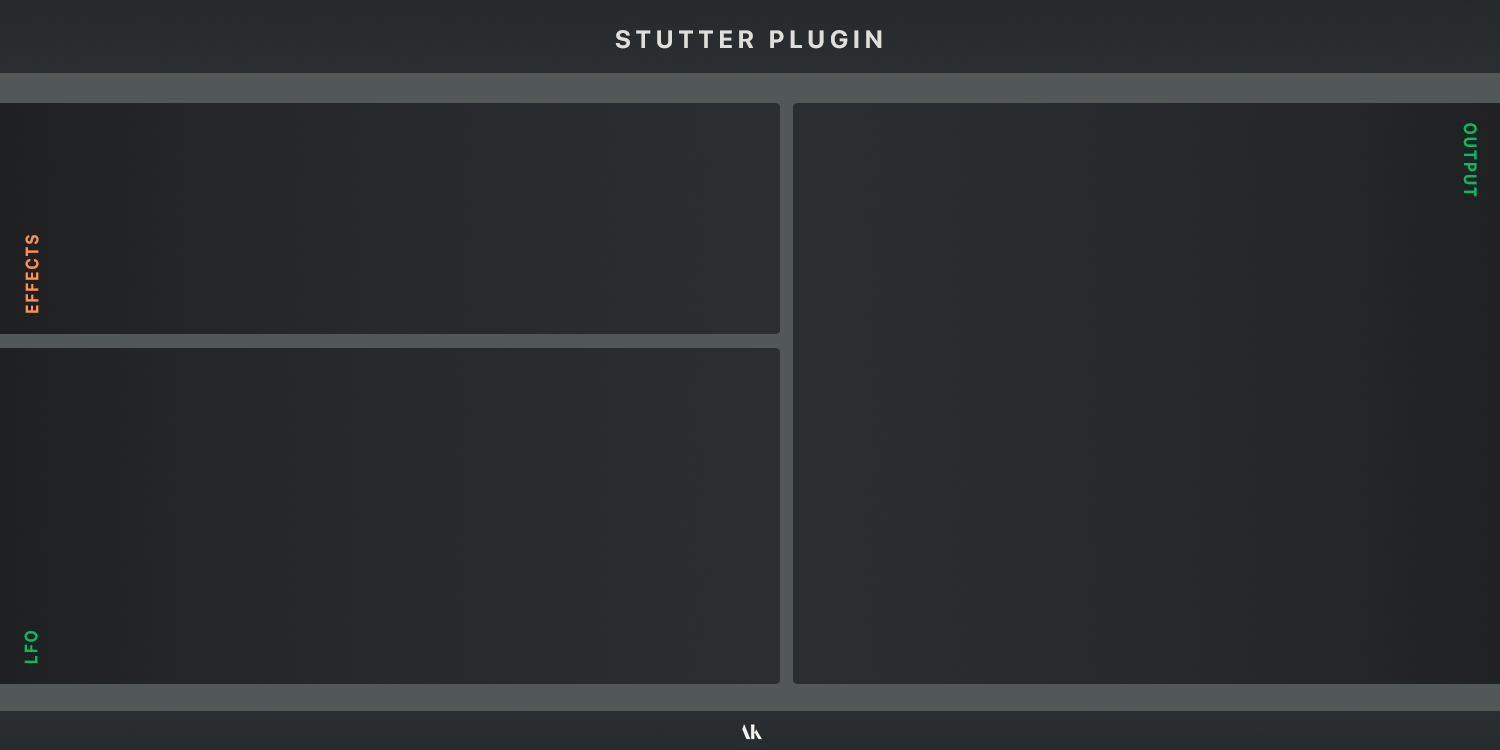
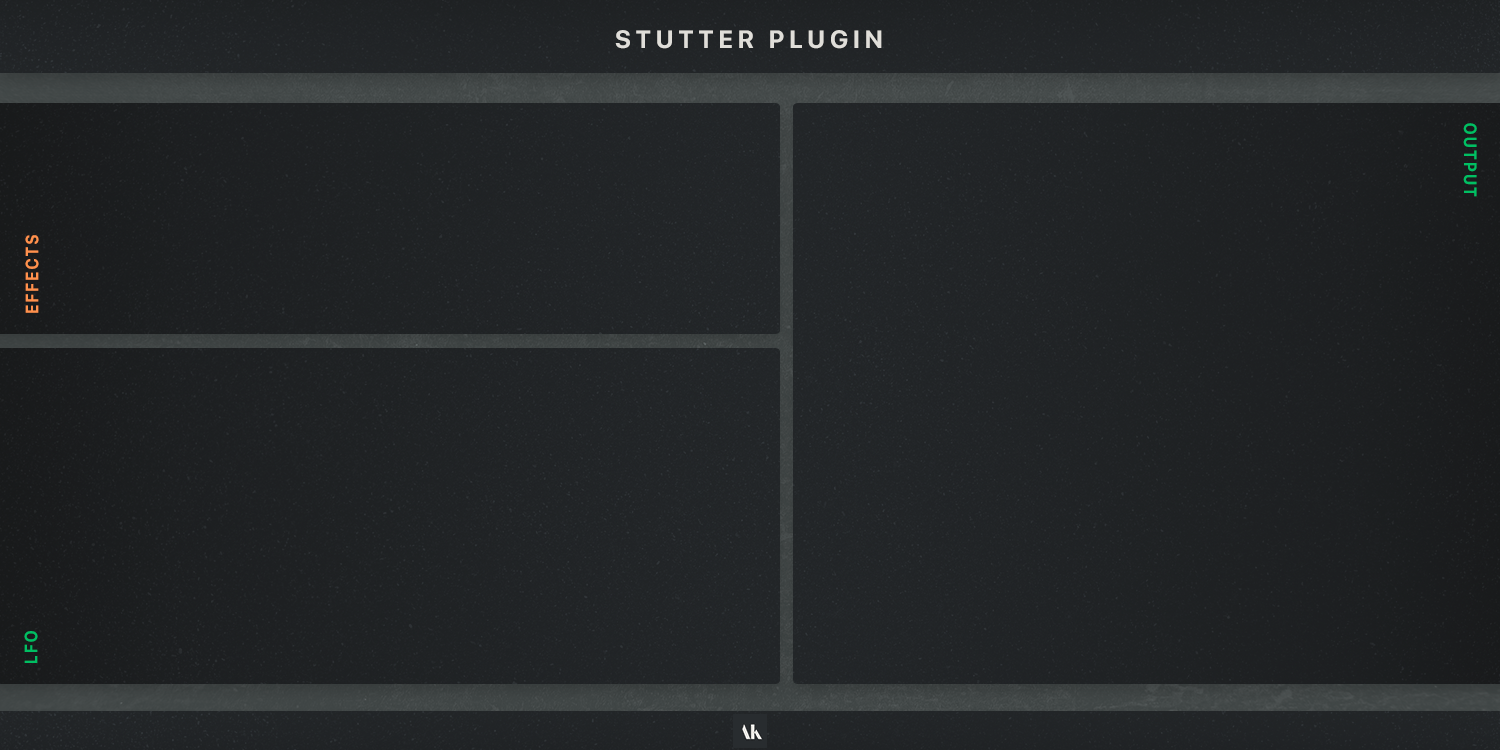
Button LnF

diff --git a/PluginEditor.h b/PluginEditor.h
@@ -44,7 +44,7 @@ public:
             rotaryStartAngle,
             rotaryEndAngle,
             true);
-        g.setColour(MyColours::vitalGrey);
+        g.setColour(MyColours::vitalMidGrey);
         //g.fillPath(buttonBackground);
 
         juce::Path backgroundArc;
@@ -57,7 +57,7 @@ public:
             rotaryEndAngle,
             true);
 
-        g.setColour(MyColours::vitalGrey);
+        g.setColour(MyColours::vitalMidGrey);
         g.strokePath(backgroundArc, juce::PathStrokeType(lineW));
 
         if (slider.isEnabled())
@@ -82,7 +82,7 @@ public:
         
         if (toAngle == rotaryStartAngle)
         {
-            g.setColour(MyColours::vitalGrey);
+            g.setColour(MyColours::vitalMidGrey);
         }
         
         /** Dial tick length*/
@@ -101,7 +101,7 @@ public:
             auto bounds = juce::Rectangle<float>(x, y, width, height);
 
             juce::Rectangle<float> sliderOuterPath{ bounds.getX(), bounds.getY(), bounds.getWidth(), 0.4f * bounds.getHeight() };
-            g.setColour(MyColours::vitalGrey);
+            g.setColour(MyColours::vitalMidGrey);
             g.fillRoundedRectangle(sliderOuterPath, 0.2f);
 
 
@@ -110,12 +110,12 @@ public:
             g.fillRoundedRectangle(sliderPath, 0.2f);
 
 
-            juce::Rectangle<float> sliderThumb{ sliderPos, bounds.getY() + 0.5f * bounds.getHeight(), 0.02f * bounds.getWidth(), 0.5f * bounds.getHeight() };
+            juce::Rectangle<float> sliderThumb{ sliderPos, bounds.getY() + 0.5f * bounds.getHeight(), 0.01f * bounds.getWidth(), 0.5f * bounds.getHeight() };
             g.setColour(MyColours::green);
 
             if (sliderPos == bounds.getX())
             {
-                g.setColour(MyColours::vitalGrey);
+                g.setColour(MyColours::vitalMidGrey);
             }
             g.fillRoundedRectangle(sliderThumb, 0.2f);
         }
@@ -125,7 +125,7 @@ public:
             auto bounds = juce::Rectangle<float>(x, y, width, height);
 
             juce::Rectangle<float> sliderOuterPath{ bounds.getX(), bounds.getY(), bounds.getWidth(), 0.4f * bounds.getHeight() };
-            g.setColour(MyColours::vitalGrey);
+            g.setColour(MyColours::vitalMidGrey);
             g.fillRoundedRectangle(sliderOuterPath, 0.2f);
 
 
@@ -134,16 +134,16 @@ public:
             g.fillRoundedRectangle(sliderPath, 0.2f);
 
 
-            juce::Rectangle<float> sliderMin { minSliderPos, bounds.getY() + 0.5f * bounds.getHeight(), 0.02f * bounds.getWidth(), 0.5f * bounds.getHeight() };
+            juce::Rectangle<float> sliderMin { minSliderPos, bounds.getY() + 0.5f * bounds.getHeight(), 0.01f * bounds.getWidth(), 0.5f * bounds.getHeight() };
             g.setColour(MyColours::orange);
 
             if (minSliderPos == bounds.getX())
             {
-                g.setColour(MyColours::vitalGrey);
+                g.setColour(MyColours::vitalMidGrey);
             }
             g.fillRoundedRectangle(sliderMin, 0.2f);
 
-            juce::Rectangle<float> sliderMax{ maxSliderPos - 0.02f * bounds.getWidth(), bounds.getY() + 0.5f * bounds.getHeight(), 0.02f * bounds.getWidth(), 0.5f * bounds.getHeight() };
+            juce::Rectangle<float> sliderMax{ maxSliderPos - 0.01f * bounds.getWidth(), bounds.getY() + 0.5f * bounds.getHeight(), 0.01f * bounds.getWidth(), 0.5f * bounds.getHeight() };
             g.setColour(MyColours::orange);
 
             if (sliderMax.getRight() == bounds.getRight())
@@ -152,8 +152,15 @@ public:
             }
             g.fillRoundedRectangle(sliderMax, 0.2f);
         }
+    }
 
-
+    void drawButtonBackground(juce::Graphics& g, juce::Button& button, const juce::Colour& backgroundColour, bool, bool isButtonDown) override
+    {
+        auto buttonArea = button.getLocalBounds();
+        //auto buttonArea = juce::Rectangle<float> (1.0f * button.getX(), 1.0f * button.getY(), 1.0f * button.getWidth(), 1.0f * button.getHeight());
+        g.setColour(backgroundColour);
+        //g.setCornerRadius
+        g.fillRect(buttonArea);
     }
 };
 
@@ -201,8 +208,6 @@ private:
     juce::Slider LFODial;
     juce::Slider doubleSlider;
 
-
-
     juce::TextButton buttonSine;
     juce::TextButton buttonSaw;
     juce::TextButton buttonSquare;
@@ -211,8 +216,6 @@ private:
     {
         Waves = 1001
     };
-
-
 
     /*
     juce::TextButton buttonSine;

diff --git a/PluginEditor.cpp b/PluginEditor.cpp
@@ -15,7 +15,10 @@ InterfaceTestAudioProcessorEditor::InterfaceTestAudioProcessorEditor (InterfaceT
 {
     
     initWindow();
+
+    buttonSine.setToggleState(true, juce::NotificationType::dontSendNotification);
     initDials();
+
 }
 
 void InterfaceTestAudioProcessorEditor::initWindow()
@@ -77,27 +80,36 @@ void InterfaceTestAudioProcessorEditor::initDials()
     LFODial.setColour(juce::Slider::textBoxOutlineColourId, MyColours::vitalMidGrey);
 
     addAndMakeVisible(audioProcessor.waveViewerPre);
-    audioProcessor.waveViewerPre.setColours(MyColours::vitalGrey, MyColours::orange);
+    audioProcessor.waveViewerPre.setColours(MyColours::vitalMidGrey, MyColours::orange);
     addAndMakeVisible(audioProcessor.waveViewerPost);
-    audioProcessor.waveViewerPost.setColours(MyColours::vitalGrey, MyColours::green);
+    audioProcessor.waveViewerPost.setColours(MyColours::vitalMidGrey, MyColours::green);
 
     addAndMakeVisible(buttonSine);
     buttonSine.setButtonText("Sine");
     buttonSine.setClickingTogglesState(true);
-    buttonSine.setColour(juce::TextButton::ColourIds::buttonOnColourId, MyColours::green);
+    buttonSine.setColour(juce::TextButton::ColourIds::buttonOnColourId, MyColours::vitalMidGrey);
+    buttonSine.setColour(juce::TextButton::ColourIds::textColourOnId, MyColours::green);
     buttonSine.setColour(juce::TextButton::ColourIds::buttonColourId, MyColours::vitalMidGrey);
+    buttonSine.setColour(juce::TextButton::ColourIds::textColourOffId, MyColours::vitalGrey);
+    buttonSine.setLookAndFeel(&myLookAndFeel);
 
     addAndMakeVisible(buttonSaw);
     buttonSaw.setButtonText("Saw");
     buttonSaw.setClickingTogglesState(true);
-    buttonSaw.setColour(juce::TextButton::ColourIds::buttonOnColourId, MyColours::green);
+    buttonSaw.setColour(juce::TextButton::ColourIds::buttonOnColourId, MyColours::vitalMidGrey);
+    buttonSaw.setColour(juce::TextButton::ColourIds::textColourOnId, MyColours::green);
     buttonSaw.setColour(juce::TextButton::ColourIds::buttonColourId, MyColours::vitalMidGrey);
+    buttonSaw.setColour(juce::TextButton::ColourIds::textColourOffId, MyColours::vitalGrey);
+    buttonSaw.setLookAndFeel(&myLookAndFeel);
 
     addAndMakeVisible(buttonSquare);
     buttonSquare.setButtonText("Square");
     buttonSquare.setClickingTogglesState(true);
-    buttonSquare.setColour(juce::TextButton::ColourIds::buttonOnColourId, MyColours::green);
+    buttonSquare.setColour(juce::TextButton::ColourIds::buttonOnColourId, MyColours::vitalMidGrey);
+    buttonSquare.setColour(juce::TextButton::ColourIds::textColourOnId, MyColours::green);
     buttonSquare.setColour(juce::TextButton::ColourIds::buttonColourId, MyColours::vitalMidGrey);
+    buttonSquare.setColour(juce::TextButton::ColourIds::textColourOffId, MyColours::vitalGrey);
+    buttonSquare.setLookAndFeel(&myLookAndFeel);
 
     buttonSine.setRadioGroupId(Waves);
     buttonSaw.setRadioGroupId(Waves);
